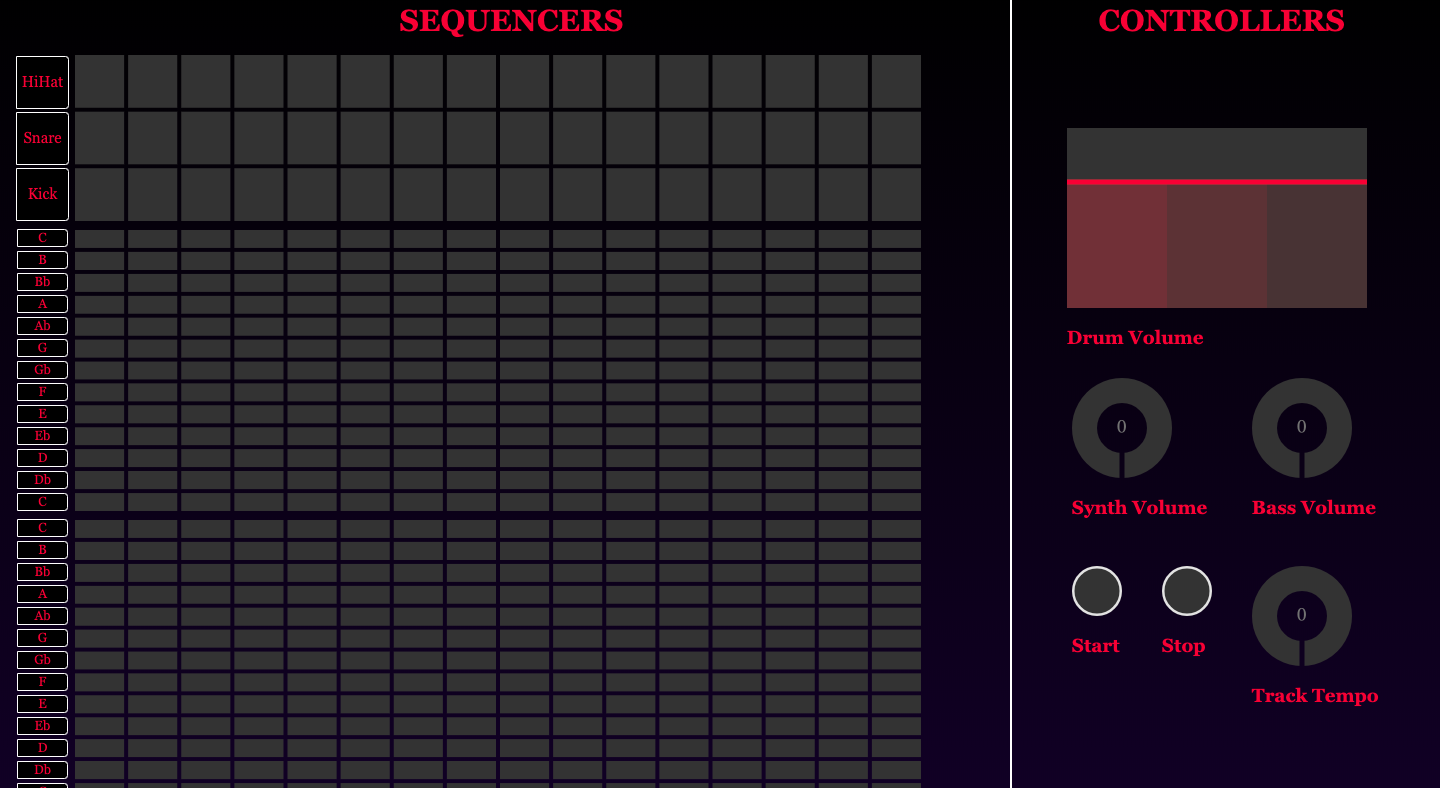
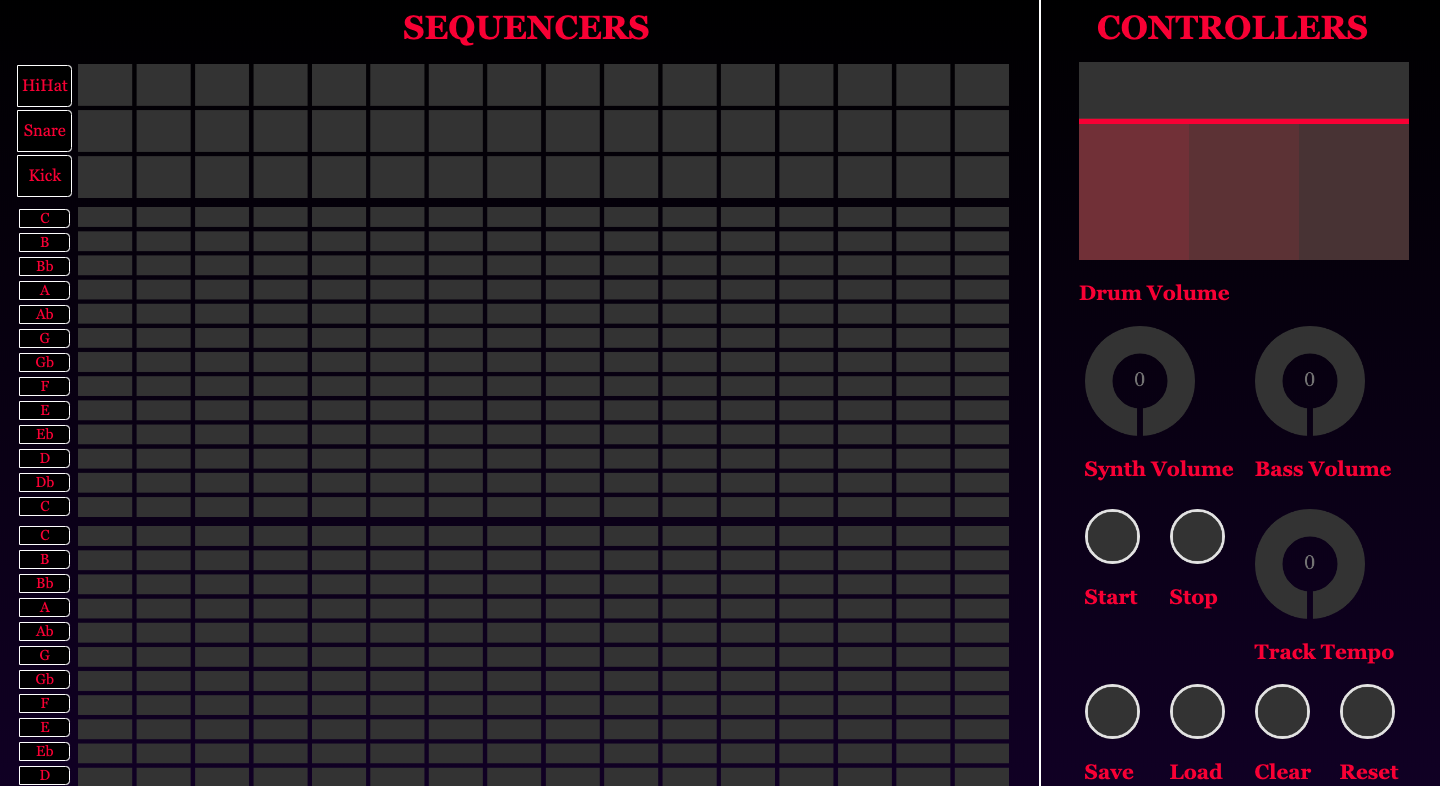
Final UI elements

diff --git a/scripts/constants.js b/scripts/constants.js
@@ -1,0 +1,41 @@
+const emptyMatrix = {
+    "drumMatrix" : [
+        [0, 0, 0], [0, 0, 0], [0, 0, 0], [0, 0, 0], [0, 0, 0], [0, 0, 0], [0, 0, 0], [0, 0, 0], 
+        [0, 0, 0], [0, 0, 0], [0, 0, 0], [0, 0, 0], [0, 0, 0], [0, 0, 0], [0, 0, 0], [0, 0, 0]
+    ], 
+    "synthMatrix": [
+        [0, 0, 0, 0, 0, 0, 0, 0, 0, 0, 0, 0, 0], 
+        [0, 0, 0, 0, 0, 0, 0, 0, 0, 0, 0, 0, 0], 
+        [0, 0, 0, 0, 0, 0, 0, 0, 0, 0, 0, 0, 0], 
+        [0, 0, 0, 0, 0, 0, 0, 0, 0, 0, 0, 0, 0], 
+        [0, 0, 0, 0, 0, 0, 0, 0, 0, 0, 0, 0, 0], 
+        [0, 0, 0, 0, 0, 0, 0, 0, 0, 0, 0, 0, 0], 
+        [0, 0, 0, 0, 0, 0, 0, 0, 0, 0, 0, 0, 0], 
+        [0, 0, 0, 0, 0, 0, 0, 0, 0, 0, 0, 0, 0], 
+        [0, 0, 0, 0, 0, 0, 0, 0, 0, 0, 0, 0, 0], 
+        [0, 0, 0, 0, 0, 0, 0, 0, 0, 0, 0, 0, 0], 
+        [0, 0, 0, 0, 0, 0, 0, 0, 0, 0, 0, 0, 0], 
+        [0, 0, 0, 0, 0, 0, 0, 0, 0, 0, 0, 0, 0], 
+        [0, 0, 0, 0, 0, 0, 0, 0, 0, 0, 0, 0, 0], 
+        [0, 0, 0, 0, 0, 0, 0, 0, 0, 0, 0, 0, 0], 
+        [0, 0, 0, 0, 0, 0, 0, 0, 0, 0, 0, 0, 0], 
+        [0, 0, 0, 0, 0, 0, 0, 0, 0, 0, 0, 0, 0]], 
+    "bassMatrix": [
+        [0, 0, 0, 0, 0, 0, 0, 0, 0, 0, 0, 0, 0], 
+        [0, 0, 0, 0, 0, 0, 0, 0, 0, 0, 0, 0, 0], 
+        [0, 0, 0, 0, 0, 0, 0, 0, 0, 0, 0, 0, 0], 
+        [0, 0, 0, 0, 0, 0, 0, 0, 0, 0, 0, 0, 0], 
+        [0, 0, 0, 0, 0, 0, 0, 0, 0, 0, 0, 0, 0], 
+        [0, 0, 0, 0, 0, 0, 0, 0, 0, 0, 0, 0, 0], 
+        [0, 0, 0, 0, 0, 0, 0, 0, 0, 0, 0, 0, 0], 
+        [0, 0, 0, 0, 0, 0, 0, 0, 0, 0, 0, 0, 0], 
+        [0, 0, 0, 0, 0, 0, 0, 0, 0, 0, 0, 0, 0], 
+        [0, 0, 0, 0, 0, 0, 0, 0, 0, 0, 0, 0, 0], 
+        [0, 0, 0, 0, 0, 0, 0, 0, 0, 0, 0, 0, 0], 
+        [0, 0, 0, 0, 0, 0, 0, 0, 0, 0, 0, 0, 0], 
+        [0, 0, 0, 0, 0, 0, 0, 0, 0, 0, 0, 0, 0], 
+        [0, 0, 0, 0, 0, 0, 0, 0, 0, 0, 0, 0, 0], 
+        [0, 0, 0, 0, 0, 0, 0, 0, 0, 0, 0, 0, 0], 
+        [0, 0, 0, 0, 0, 0, 0, 0, 0, 0, 0, 0, 0]
+    ]
+}

diff --git a/index.html b/index.html
@@ -112,17 +112,30 @@
             </div>
             <!--STATE SAVE AND LOAD-->
             <div id="presets">
+                <!--SAVE BUTTON-->
                 <div id="saveBtn">
                     <canvas nx="button" id="save"></canvas>
                     <h3>Save</h3>
                 </div>
+                <!--LOAD BUTTON-->
                 <div id="loadBtn">
                     <canvas nx="button" id="load"></canvas>
                     <h3>Load</h3>
                 </div>
+                <!--RESET BUTTON-->
+                <div id="resetBtn">
+                    <canvas nx="button" id="reset"></canvas>
+                    <h3>Clear Grid</h3>
+                </div>
+                <!--CLEAR BUTTON-->
+                <div id="clearBtn">
+                    <canvas nx="button" id="clear"></canvas>
+                    <h3>Reset Memory</h3>
+                </div>
             </div>
         </div>
 
+        <script type="text/javascript" src="scripts/constants.js"></script>
         <script type="text/javascript" src="scripts/index.js"></script>
     </body>
 </html>

diff --git a/scripts/index.js b/scripts/index.js
@@ -66,3 +66,17 @@ document.getElementById('load').addEventListener('click', function() {
     synthMatrix.matrix = save.synthMatrix;
     [drumMatrix, synthMatrix, bassMatrix].forEach(matrix => matrix.init())
 });
+
+//Clear button event listener to clear grid pattern
+document.getElementById('clear').addEventListener('click', function() {
+    delete localStorage['pattern'];
+});
+
+//Reset button event listener to reset local storage memory
+document.getElementById('reset').addEventListener('click', function() {
+    const grid_reset = emptyMatrix;
+    drumMatrix.matrix = grid_reset.drumMatrix;
+    bassMatrix.matrix = grid_reset.bassMatrix;
+    synthMatrix.matrix = grid_reset.synthMatrix;
+    [drumMatrix, synthMatrix, bassMatrix].forEach(matrix => matrix.init())
+});

diff --git a/CSS/style.css b/CSS/style.css
@@ -174,6 +174,18 @@ h1{
     float: left;
 }
 
+/*RESET BUTTON*/
+#resetBtn {
+    width: 25%;
+    float: left;
+}
+
+/*CLEAR BUTTON*/
+#clearBtn {
+    width: 25%;
+    float: left;
+}
+
 /*STATE SAVE AND LOAD*/
 #presets {
     padding-left: 40px;
